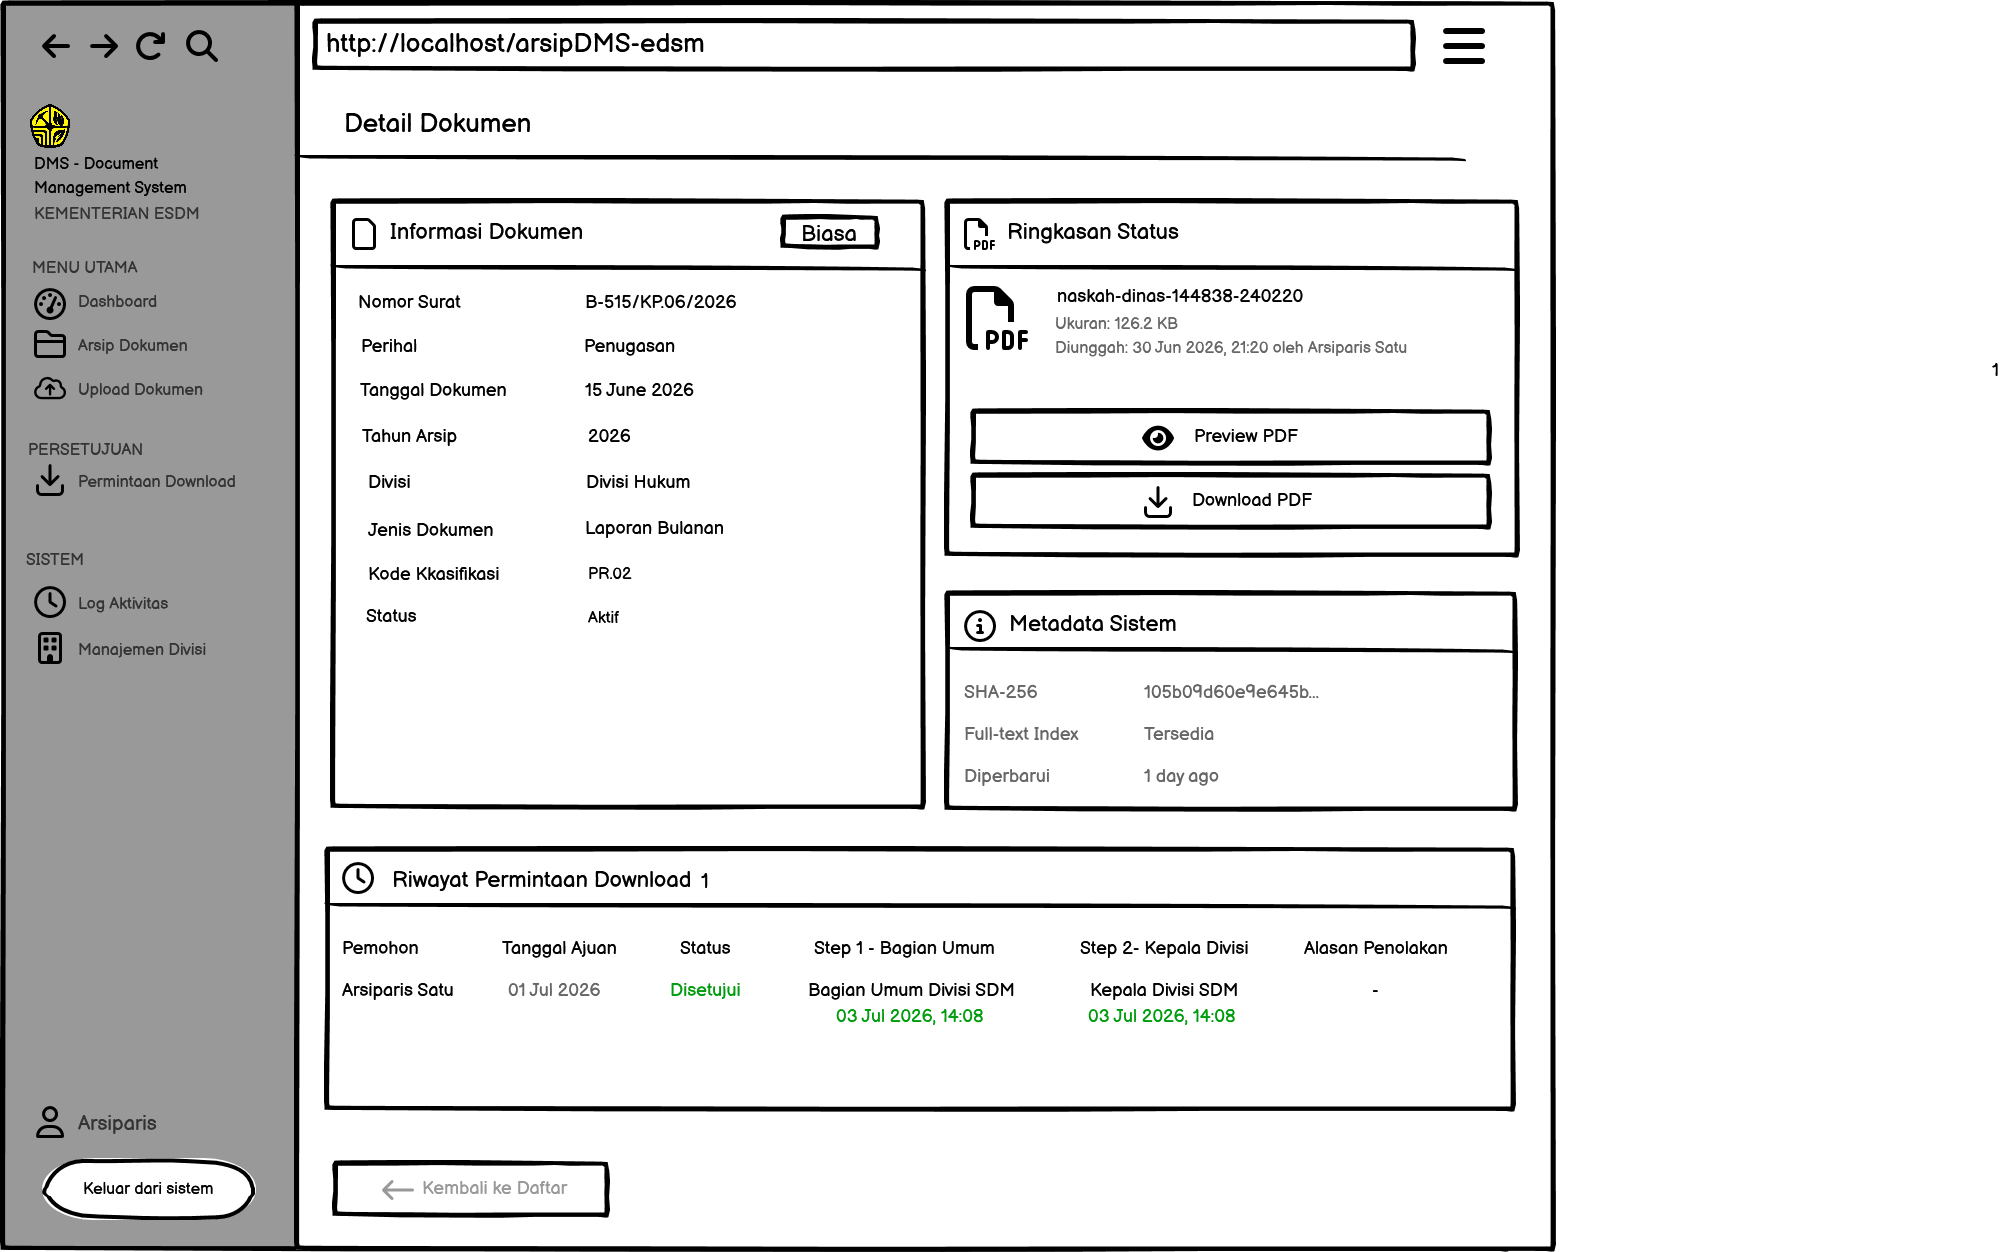
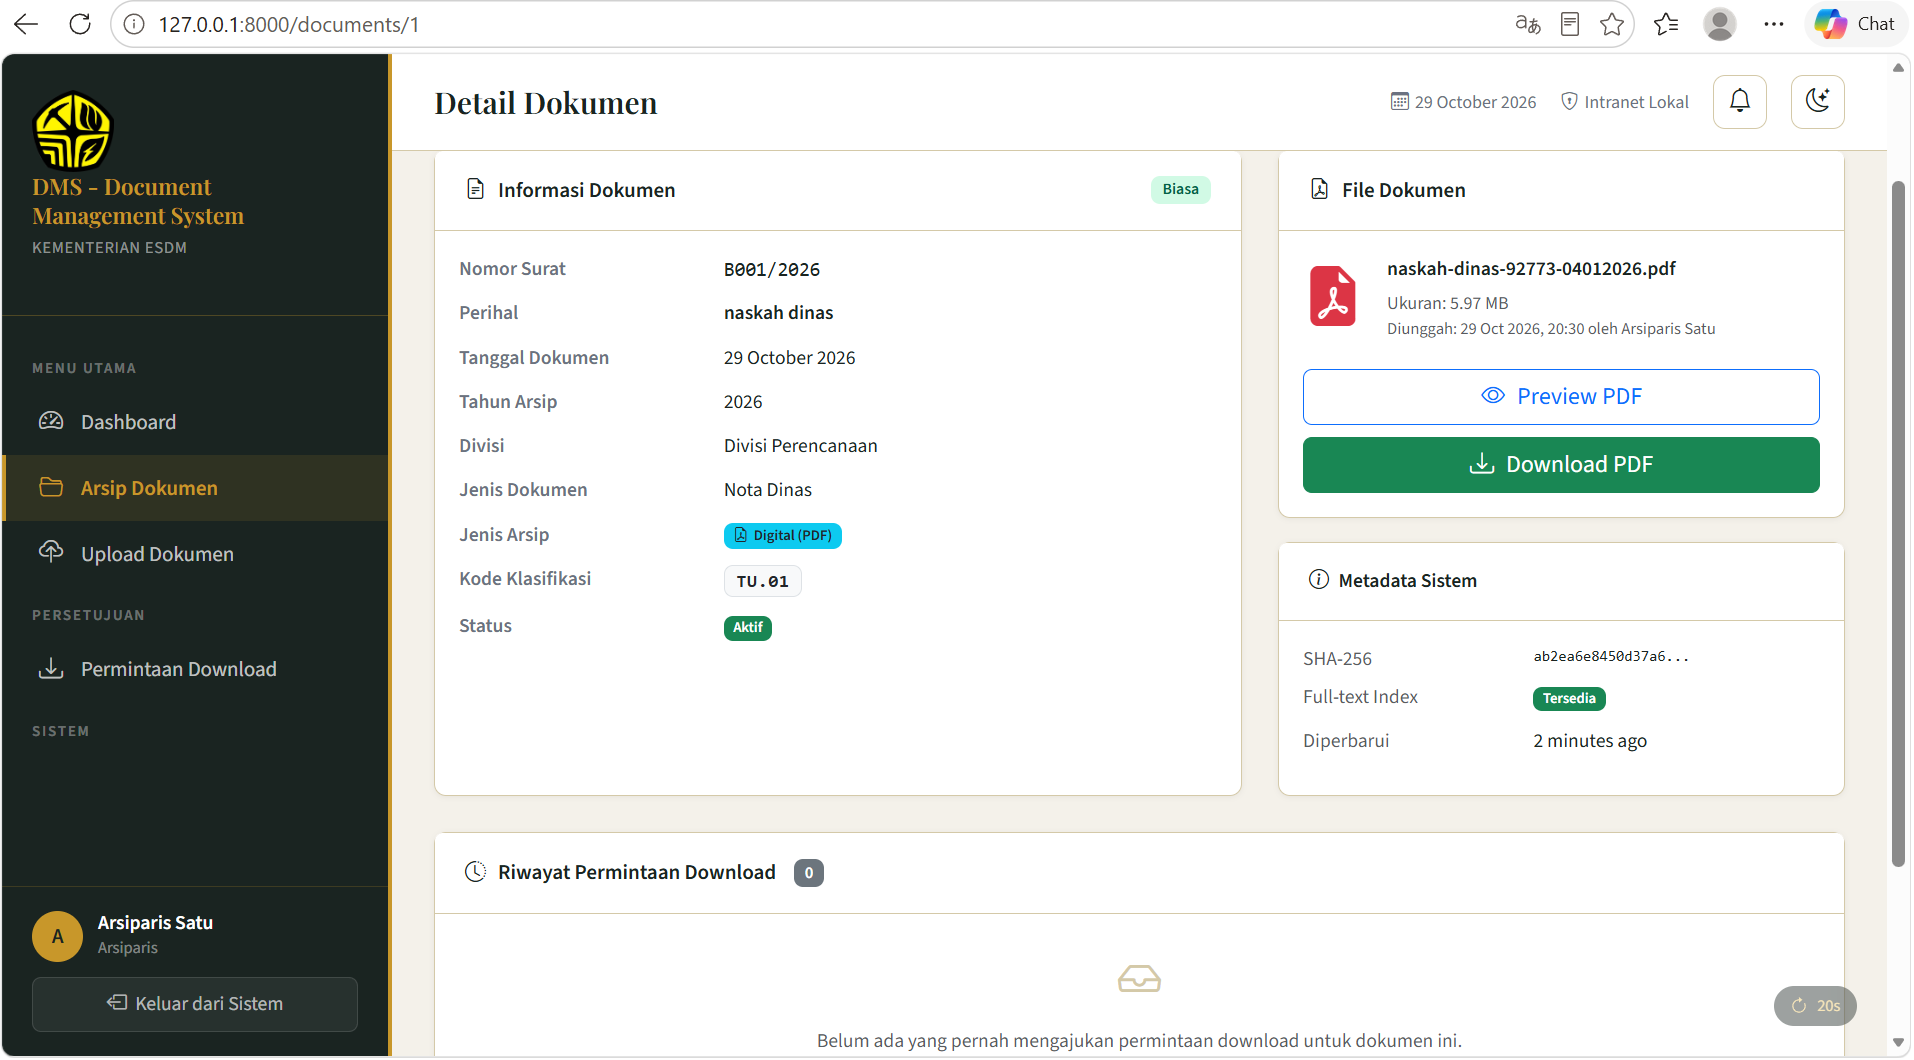
fix dms cover image path

diff --git a/src/components/Projects.jsx b/src/components/Projects.jsx
@@ -17,7 +17,7 @@ const projects = [
     tech: ['PRD', 'User Stories', 'SQL Query', 'Blackbox Testing', 'Tesseract OCR', 'MySQL', 'Laravel/PHP'],
     repoUrl: 'https://github.com/riskazizah/DMS-Arsip',
     images: [
-      '/assets/uiux/ocr-dms/dms-search-ocr.png',
+      '/uiux/ocr-dms/dms-search-ocr.png?v=2',
       '/assets/uiux/ocr-dms/dms-upload.png',
       '/assets/uiux/ocr-dms/dms-detail-metadata.png',
     ],
